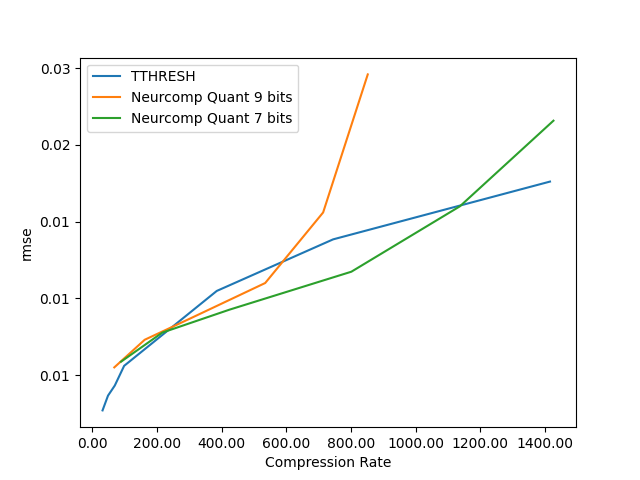
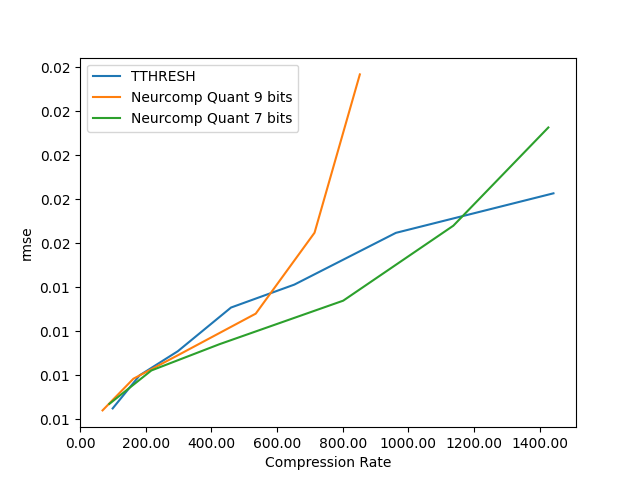
add plot for correct psnr calc

diff --git a/visualization/generatecomprPlot.py b/visualization/generatecomprPlot.py
@@ -110,14 +110,14 @@ def rmseTTHRESHExperiment():
     NeurcompQuantCompRate = [60.230, 126.506, 196.638, 242.587, 272.6391469424025]
 
     # RMSE target
-    #tthreshPSNREjecta = [44.583, 42.1581, 40.6303, 38.6363, 33.9794]
-    #tthreshRMSEEjecta = [0.005638692785004683, 0.007525124659809455, 0.00890579221394341, 0.011315378855451252, 0.019798166356808308]
-    #tthreshCompRateEjeta = [99.914, 182.523, 300.772, 455.698, 1747.54]
+    tthreshPSNREjecta = [51.038630986361255, 48.52475445972449, 47.06839826504262, 44.92355607499145, 43.978323450645114, 42.16238575491416, 40.99271445293446]
+    tthreshRMSEEjecta = [0.0056117516941404065, 0.007495356133233042, 0.008863598644750986, 0.011346245910307466, 0.012650678624318219, 0.015592318877128872, 0.01783997629700317]
+    tthreshCompRateEjeta = [98.9605, 181.276, 297.497, 459.492, 652.493, 961.858, 1442.02]
 
     # PSNR target
-    tthreshPSNREjecta = [51.3853, 48.7344, 47.3002, 45.0356, 39.5897, 37.1734, 35.0835]
-    tthreshRMSEEjecta = [0.00269608, 0.0036583, 0.00431511, 0.00560041, 0.0104838, 0.0138462, 0.0176128]
-    tthreshCompRateEjeta = [31.7948, 48.6866, 69.6177, 98.5605, 385.059, 744.975, 1415.74]
+    #tthreshPSNREjecta = [51.3853, 48.7344, 47.3002, 45.0356, 39.5897, 37.1734, 35.0835]
+    #tthreshRMSEEjecta = [0.00269608, 0.0036583, 0.00431511, 0.00560041, 0.0104838, 0.0138462, 0.0176128]
+    #tthreshCompRateEjeta = [31.7948, 48.6866, 69.6177, 98.5605, 385.059, 744.975, 1415.74]
 
     NeurcompQuantPSNREjecta9 = [51.2516, 48.8107, 47.2383, 45.1975, 42.1818, 38.1867]
     NeurcompQuantRMSEEjecta9 = [0.0055, 0.0073, 0.0087, 0.0110, 0.0156, 0.0246]
@@ -140,9 +140,14 @@ def rmseTTHRESHExperiment():
     NeurcompQuantCompRatemhd_noGrad9 = [68.412068076328, 162.14521452145215, 300.6132327746404, 528.6332552245229, 861.3701298701299]
 
     # PSNR no Grad target
-    tthreshPSNRmhd_p = [55.1833, 49.1794, 45.2835, 41.0376, 38.5452, 34.7223, 30.342, 28.1689]
-    tthreshRMSEmhd_p = [0.0014869144161891758, 0.003114780095102444, 0.004981052701820832, 0.008235872355390245,  0.0118234, 0.017433496413122113, 0.0304019, 0.0390439]
-    tthreshCompRatemhd_p = [20.7634, 35.9296, 58.0608, 104.395, 172.495, 309.201, 741.548, 1218.99]
+    #tthreshPSNRmhd_p = [55.1833, 49.1794, 45.2835, 41.0376, 38.5452, 34.7223, 30.342, 28.1689]
+    #tthreshRMSEmhd_p = [0.0014869144161891758, 0.003114780095102444, 0.004981052701820832, 0.008235872355390245,  0.0118234, 0.017433496413122113, 0.0304019, 0.0390439]
+    #tthreshCompRatemhd_p = [20.7634, 35.9296, 58.0608, 104.395, 172.495, 309.201, 741.548, 1218.99]
+
+    # RMSE
+    tthreshPSNRmhd_p = [56.09312771034319, 50.073628444238494, 46.08512253045333, 41.55766999675827, 40.41322974713026, 36.78848713255406, 34.925096746538294, 34.597142893155734]
+    tthreshRMSEmhd_p = [0.003135982353123946, 0.006271169994000251, 0.009925990818509228, 0.016716544001841114, 0.019070782289479934, 0.028947138499412675, 0.035873616272853986, 0.03725399491978439]
+    tthreshCompRatemhd_p = [36.145, 79.6552, 141.825, 297.357, 341.542, 681.394, 1096.76, 1143.66]
 
     param = 'rmse'#'psnr', 'rmse'
 
@@ -161,13 +166,13 @@ def rmseTTHRESHExperiment():
         realCompRates.append(float(bestrun.data.params['compression_ratio']))
 
     #plt.plot(realCompRates, allRunsData, label='Neurcomp no Quant')
-    #plt.plot(tthreshCompRateEjeta, tthreshRMSEEjecta, label='TTHRESH')
-    #plt.plot(NeurcompQuantCompRateEjecta9, NeurcompQuantRMSEEjecta9, label='Neurcomp Quant 9 bits')
-    #plt.plot(NeurcompQuantCompRateEjecta7, NeurcompQuantRMSEEjecta7, label='Neurcomp Quant 7 bits')
+    plt.plot(tthreshCompRateEjeta, tthreshRMSEEjecta, label='TTHRESH')
+    plt.plot(NeurcompQuantCompRateEjecta9, NeurcompQuantRMSEEjecta9, label='Neurcomp Quant 9 bits')
+    plt.plot(NeurcompQuantCompRateEjecta7, NeurcompQuantRMSEEjecta7, label='Neurcomp Quant 7 bits')
 
-    plt.plot(tthreshCompRateEjeta, tthreshPSNREjecta, label='TTHRESH')
-    plt.plot(NeurcompQuantCompRateEjecta9, NeurcompQuantPSNREjecta9, label='Neurcomp Quant 9 bits')
-    plt.plot(NeurcompQuantCompRateEjecta7, NeurcompQuantPSNREjecta7, label='Neurcomp Quant 7 bits')
+    #plt.plot(tthreshCompRateEjeta, tthreshPSNREjecta, label='TTHRESH')
+    #plt.plot(NeurcompQuantCompRateEjecta9, NeurcompQuantPSNREjecta9, label='Neurcomp Quant 9 bits')
+    #plt.plot(NeurcompQuantCompRateEjecta7, NeurcompQuantPSNREjecta7, label='Neurcomp Quant 7 bits')
 
     #plt.plot(tthreshCompRatemhd_p, tthreshPSNRmhd_p, label='TTHRESH')
     #plt.plot(NeurcompQuantCompRatemhd_9, NeurcompQuantPSNRmhd_p9, label='Neurcomp Quant 9 bits')
